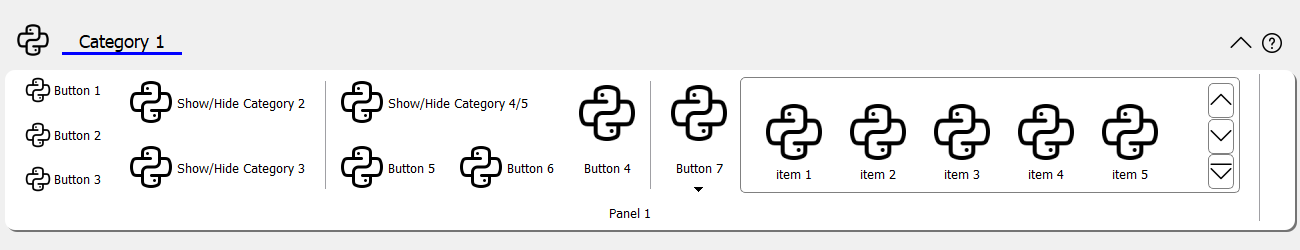
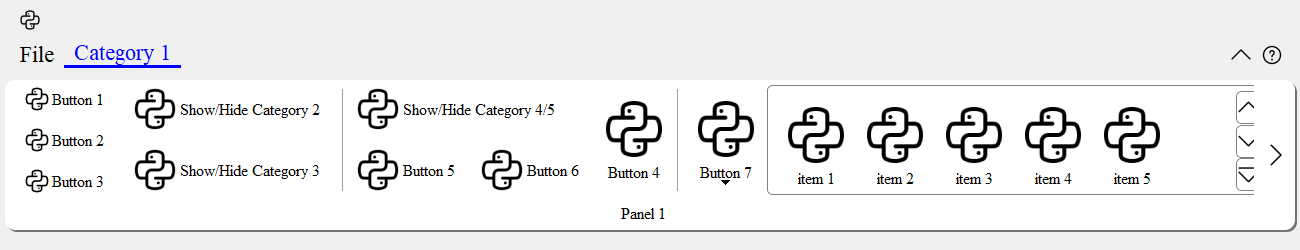
Use local machine to build screenshots

diff --git a/docs/source/_examples/tutorial-ribbonbar.py b/docs/source/_examples/tutorial-ribbonbar.py
@@ -1,10 +1,11 @@
 import sys
 
-from PyQt5.QtWidgets import QApplication, QMainWindow, QLabel, QWidget, QVBoxLayout
+from PyQt5.QtWidgets import QApplication, QLabel, QWidget, QVBoxLayout
 from PyQt5.QtGui import QIcon, QFont
 from PyQt5.QtCore import Qt
 
 from pyqtribbon import RibbonBar
+from pyqtribbon.screenshotwindow import RibbonScreenShotWindow
 from pyqtribbon.utils import data_file_path
 
 if __name__ == "__main__":
@@ -12,7 +13,7 @@ if __name__ == "__main__":
     app.setFont(QFont("Times New Roman", 8))
     
     # Central widget
-    window = QMainWindow()
+    window = RibbonScreenShotWindow('tutorial-ribbonbar.png')
     window.setWindowIcon(QIcon(data_file_path("icons/python.png")))
     centralWidget = QWidget()
     window.setCentralWidget(centralWidget)

diff --git a/docs/source/_examples/panel.py b/docs/source/_examples/panel.py
@@ -1,5 +1,6 @@
 import sys
 
+from qtpy import QtGui
 from qtpy.QtWidgets import QApplication, QToolButton, QMenu, QLabel, QLineEdit
 from qtpy.QtGui import QIcon
 from qtpy.QtCore import Qt
@@ -9,6 +10,7 @@ from pyqtribbon.screenshotwindow import RibbonScreenShotWindow
 
 if __name__ == '__main__':
     app = QApplication(sys.argv)
+    app.setFont(QtGui.QFont("Times New Roman", 8))
     window = RibbonScreenShotWindow('panel.png')
 
     # Ribbon bar

diff --git a/docs/source/_examples/ribbonbar-customize.py b/docs/source/_examples/ribbonbar-customize.py
@@ -1,5 +1,6 @@
 import sys
 
+from qtpy import QtGui
 from qtpy.QtWidgets import QApplication, QToolButton
 
 from pyqtribbon import RibbonBar
@@ -7,6 +8,7 @@ from pyqtribbon.screenshotwindow import RibbonScreenShotWindow
 
 if __name__ == '__main__':
     app = QApplication(sys.argv)
+    app.setFont(QtGui.QFont("Times New Roman", 8))
     window = RibbonScreenShotWindow('ribbonbar-customize.png')
 
     # Ribbon bar

diff --git a/docs/source/_examples/category.py b/docs/source/_examples/category.py
@@ -1,5 +1,6 @@
 import sys
 
+from qtpy import QtGui
 from qtpy.QtWidgets import QApplication
 from qtpy.QtGui import QIcon
 
@@ -8,6 +9,7 @@ from pyqtribbon.screenshotwindow import RibbonScreenShotWindow
 
 if __name__ == '__main__':
     app = QApplication(sys.argv)
+    app.setFont(QtGui.QFont("Times New Roman", 8))
     window = RibbonScreenShotWindow('category.png')
 
     # Ribbon bar

diff --git a/docs/source/_examples/ribbonbar.py b/docs/source/_examples/ribbonbar.py
@@ -1,12 +1,13 @@
 import sys
 
-from qtpy import QtWidgets
+from qtpy import QtWidgets, QtGui
 
 from pyqtribbon import RibbonBar
 from pyqtribbon.screenshotwindow import RibbonScreenShotWindow
 
 if __name__ == '__main__':
     app = QtWidgets.QApplication(sys.argv)
+    app.setFont(QtGui.QFont("Times New Roman", 8))
     window = RibbonScreenShotWindow('ribbonbar.png')
 
     # Ribbon bar

diff --git a/docs/source/conf.py b/docs/source/conf.py
@@ -38,10 +38,7 @@ extensions = [
     'sphinx.ext.linkcode',
     'sphinx.ext.githubpages',
     'sphinx_qt_documentation',
-    'sphinx_exec_code',
 ]
-
-exec_code_working_dir = './_examples'
 
 qt_documentation = 'Qt5'
 autodoc_typehints_format = 'short'

diff --git a/docs/source/_examples/build.py b/docs/source/_examples/build.py
@@ -1,0 +1,6 @@
+import os
+
+
+for file in os.listdir(os.path.dirname(__file__)):
+    if file.endswith('.py') and not file.startswith('build'):
+        os.system(f'python {file}')

diff --git a/docs/source/user.rst b/docs/source/user.rst
@@ -32,8 +32,7 @@ Example
 
 For example, using the following code,
 
-.. exec_code::
-    :filename: _examples/ribbonbar.py
+.. literalinclude:: _examples/ribbonbar.py
 
 You can get a window like this:
 
@@ -125,8 +124,7 @@ Example
 
 For example, using the following code,
 
-.. exec_code::
-    :filename: _examples/ribbonbar-customize.py
+.. literalinclude:: _examples/ribbonbar-customize.py
 
 You can get a window like this:
 
@@ -186,8 +184,7 @@ Example
 
 For example, using the following code,
 
-.. exec_code::
-    :filename: _examples/category.py
+.. literalinclude:: _examples/category.py
 
 You can get a window like this:
 
@@ -269,8 +266,7 @@ Example
 
 For example, using the following code,
 
-.. exec_code::
-    :filename: _examples/panel.py
+.. literalinclude:: _examples/panel.py
 
 You can get a window like this:
 
@@ -283,8 +279,7 @@ A Complete Example
 
 The following code snippet is a complete example.
 
-.. exec_code::
-    :filename: _examples/tutorial-ribbonbar.py
+.. literalinclude:: _examples/tutorial-ribbonbar.py
 
 You can get a window like this:
 
